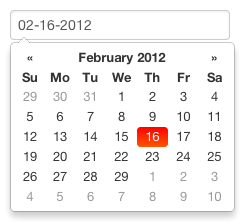
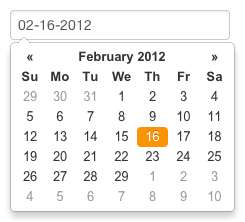
Removing mixins and gradients

diff --git a/css/datepicker.css b/css/datepicker.css
@@ -8,6 +8,16 @@
  * http://www.apache.org/licenses/LICENSE-2.0
  *
  */
+/*!
+ * Datepicker for Foundation
+ *
+ * Copyright 2012 Stefan Petre
+ * Improvements by Andrew Rowls
+ * Converted to SCSS by David Ollerhead
+ * Licensed under the Apache License v2.0
+ * http://www.apache.org/licenses/LICENSE-2.0
+ *
+ */
 .datepicker {
   padding: 4px;
   -webkit-border-radius: 4px;
@@ -39,7 +49,7 @@
     *border-right-width: 2px;
     *border-bottom-width: 2px;
     color: #333;
-    font-family: "Helvetica Neue", Helvetica, Arial, sans-serif;
+    font-family: Arial, "Helvetica Neue", Helvetica, sans-serif;
     font-size: 13px;
     line-height: 1.42857; }
   .datepicker.dropdown-menu th, .datepicker.dropdown-menu td, .datepicker.datepicker-inline th, .datepicker.datepicker-inline td {
@@ -127,22 +137,8 @@
     color: #999;
     cursor: default; }
   .datepicker table tr td.today, .datepicker table tr td.today:hover, .datepicker table tr td.today.disabled, .datepicker table tr td.today.disabled:hover {
-    background-color: #fde49a;
-    background-image: -moz-linear-gradient(top, #fdd49a, #fdf59a);
-    background-image: -ms-linear-gradient(top, #fdd49a, #fdf59a);
-    background-image: -webkit-gradient(linear, 0 0, 0 100%, from(#fdd49a), to(#fdf59a));
-    background-image: -webkit-linear-gradient(top, #fdd49a, #fdf59a);
-    background-image: -o-linear-gradient(top, #fdd49a, #fdf59a);
-    background-image: linear-gradient(top, #fdd49a, #fdf59a);
-    background-repeat: repeat-x;
-    border-color: #fdf59a #fdf59a #fbed50;
-    border-color: rgba(0, 0, 0, 0.1) rgba(0, 0, 0, 0.1) fadein(rgba(0, 0, 0, 0.1), 15%);
-    filter: progid:DXImageTransform.Microsoft.gradient(enabled = false);
+    background-color: #fdd49a;
     color: #000; }
-    .datepicker table tr td.today:hover, .datepicker table tr td.today:active, .datepicker table tr td.today.active, .datepicker table tr td.today.disabled, .datepicker table tr td.today[disabled], .datepicker table tr td.today:hover:hover, .datepicker table tr td.today:hover:active, .datepicker table tr td.today:hover.active, .datepicker table tr td.today:hover.disabled, .datepicker table tr td.today:hover[disabled], .datepicker table tr td.today.disabled:hover, .datepicker table tr td.today.disabled:active, .datepicker table tr td.today.disabled.active, .datepicker table tr td.today.disabled.disabled, .datepicker table tr td.today.disabled[disabled], .datepicker table tr td.today.disabled:hover:hover, .datepicker table tr td.today.disabled:hover:active, .datepicker table tr td.today.disabled:hover.active, .datepicker table tr td.today.disabled:hover.disabled, .datepicker table tr td.today.disabled:hover[disabled] {
-      background-color: #fdf59a; }
-    .datepicker table tr td.today:active, .datepicker table tr td.today.active, .datepicker table tr td.today:hover:active, .datepicker table tr td.today:hover.active, .datepicker table tr td.today.disabled:active, .datepicker table tr td.today.disabled.active, .datepicker table tr td.today.disabled:hover:active, .datepicker table tr td.today.disabled:hover.active {
-      background-color: #fbf069 e("	"); }
   .datepicker table tr td.today:hover:hover {
     color: #000; }
   .datepicker table tr td.today.active:hover {
@@ -153,60 +149,18 @@
     -moz-border-radius: 0;
     border-radius: 0; }
   .datepicker table tr td.range.today, .datepicker table tr td.range.today:hover, .datepicker table tr td.range.today.disabled, .datepicker table tr td.range.today.disabled:hover {
-    background-color: #e2c469;
-    background-image: -moz-linear-gradient(top, #e2b069, #e2d869);
-    background-image: -ms-linear-gradient(top, #e2b069, #e2d869);
-    background-image: -webkit-gradient(linear, 0 0, 0 100%, from(#e2b069), to(#e2d869));
-    background-image: -webkit-linear-gradient(top, #e2b069, #e2d869);
-    background-image: -o-linear-gradient(top, #e2b069, #e2d869);
-    background-image: linear-gradient(top, #e2b069, #e2d869);
-    background-repeat: repeat-x;
-    border-color: #e2d869 #e2d869 #d5c829;
-    border-color: rgba(0, 0, 0, 0.1) rgba(0, 0, 0, 0.1) fadein(rgba(0, 0, 0, 0.1), 15%);
-    filter: progid:DXImageTransform.Microsoft.gradient(enabled = false);
+    background-color: #e2b069;
     -webkit-border-radius: 0;
     -moz-border-radius: 0;
     border-radius: 0; }
-    .datepicker table tr td.range.today:hover, .datepicker table tr td.range.today:active, .datepicker table tr td.range.today.active, .datepicker table tr td.range.today.disabled, .datepicker table tr td.range.today[disabled], .datepicker table tr td.range.today:hover:hover, .datepicker table tr td.range.today:hover:active, .datepicker table tr td.range.today:hover.active, .datepicker table tr td.range.today:hover.disabled, .datepicker table tr td.range.today:hover[disabled], .datepicker table tr td.range.today.disabled:hover, .datepicker table tr td.range.today.disabled:active, .datepicker table tr td.range.today.disabled.active, .datepicker table tr td.range.today.disabled.disabled, .datepicker table tr td.range.today.disabled[disabled], .datepicker table tr td.range.today.disabled:hover:hover, .datepicker table tr td.range.today.disabled:hover:active, .datepicker table tr td.range.today.disabled:hover.active, .datepicker table tr td.range.today.disabled:hover.disabled, .datepicker table tr td.range.today.disabled:hover[disabled] {
-      background-color: #e2d869; }
-    .datepicker table tr td.range.today:active, .datepicker table tr td.range.today.active, .datepicker table tr td.range.today:hover:active, .datepicker table tr td.range.today:hover.active, .datepicker table tr td.range.today.disabled:active, .datepicker table tr td.range.today.disabled.active, .datepicker table tr td.range.today.disabled:hover:active, .datepicker table tr td.range.today.disabled:hover.active {
-      background-color: #dacd3e e("	"); }
   .datepicker table tr td.selected, .datepicker table tr td.selected:hover, .datepicker table tr td.selected.disabled, .datepicker table tr td.selected.disabled:hover {
-    background-color: #999999;
-    background-image: -moz-linear-gradient(top, #b3b3b3, gray);
-    background-image: -ms-linear-gradient(top, #b3b3b3, gray);
-    background-image: -webkit-gradient(linear, 0 0, 0 100%, from(#b3b3b3), to(gray));
-    background-image: -webkit-linear-gradient(top, #b3b3b3, gray);
-    background-image: -o-linear-gradient(top, #b3b3b3, gray);
-    background-image: linear-gradient(top, #b3b3b3, gray);
-    background-repeat: repeat-x;
-    border-color: gray gray #595959;
-    border-color: rgba(0, 0, 0, 0.1) rgba(0, 0, 0, 0.1) fadein(rgba(0, 0, 0, 0.1), 15%);
-    filter: progid:DXImageTransform.Microsoft.gradient(enabled = false);
+    background-color: #b3b3b3;
     color: #fff;
     text-shadow: 0 -1px 0 rgba(0, 0, 0, 0.25); }
-    .datepicker table tr td.selected:hover, .datepicker table tr td.selected:active, .datepicker table tr td.selected.active, .datepicker table tr td.selected.disabled, .datepicker table tr td.selected[disabled], .datepicker table tr td.selected:hover:hover, .datepicker table tr td.selected:hover:active, .datepicker table tr td.selected:hover.active, .datepicker table tr td.selected:hover.disabled, .datepicker table tr td.selected:hover[disabled], .datepicker table tr td.selected.disabled:hover, .datepicker table tr td.selected.disabled:active, .datepicker table tr td.selected.disabled.active, .datepicker table tr td.selected.disabled.disabled, .datepicker table tr td.selected.disabled[disabled], .datepicker table tr td.selected.disabled:hover:hover, .datepicker table tr td.selected.disabled:hover:active, .datepicker table tr td.selected.disabled:hover.active, .datepicker table tr td.selected.disabled:hover.disabled, .datepicker table tr td.selected.disabled:hover[disabled] {
-      background-color: gray; }
-    .datepicker table tr td.selected:active, .datepicker table tr td.selected.active, .datepicker table tr td.selected:hover:active, .datepicker table tr td.selected:hover.active, .datepicker table tr td.selected.disabled:active, .datepicker table tr td.selected.disabled.active, .datepicker table tr td.selected.disabled:hover:active, .datepicker table tr td.selected.disabled:hover.active {
-      background-color: #666666 e("	"); }
   .datepicker table tr td.active, .datepicker table tr td.active:hover, .datepicker table tr td.active.disabled, .datepicker table tr td.active.disabled:hover {
-    background-color: #ff2a00;
-    background-image: -moz-linear-gradient(top, #f00, #ff5500);
-    background-image: -ms-linear-gradient(top, #f00, #ff5500);
-    background-image: -webkit-gradient(linear, 0 0, 0 100%, from(#f00), to(#ff5500));
-    background-image: -webkit-linear-gradient(top, #f00, #ff5500);
-    background-image: -o-linear-gradient(top, #f00, #ff5500);
-    background-image: linear-gradient(top, #f00, #ff5500);
-    background-repeat: repeat-x;
-    border-color: #ff5500 #ff5500 #b33b00;
-    border-color: rgba(0, 0, 0, 0.1) rgba(0, 0, 0, 0.1) fadein(rgba(0, 0, 0, 0.1), 15%);
-    filter: progid:DXImageTransform.Microsoft.gradient(enabled = false);
+    background-color: #f89406;
     color: #fff;
     text-shadow: 0 -1px 0 rgba(0, 0, 0, 0.25); }
-    .datepicker table tr td.active:hover, .datepicker table tr td.active:active, .datepicker table tr td.active.active, .datepicker table tr td.active.disabled, .datepicker table tr td.active[disabled], .datepicker table tr td.active:hover:hover, .datepicker table tr td.active:hover:active, .datepicker table tr td.active:hover.active, .datepicker table tr td.active:hover.disabled, .datepicker table tr td.active:hover[disabled], .datepicker table tr td.active.disabled:hover, .datepicker table tr td.active.disabled:active, .datepicker table tr td.active.disabled.active, .datepicker table tr td.active.disabled.disabled, .datepicker table tr td.active.disabled[disabled], .datepicker table tr td.active.disabled:hover:hover, .datepicker table tr td.active.disabled:hover:active, .datepicker table tr td.active.disabled:hover.active, .datepicker table tr td.active.disabled:hover.disabled, .datepicker table tr td.active.disabled:hover[disabled] {
-      background-color: #ff5500; }
-    .datepicker table tr td.active:active, .datepicker table tr td.active.active, .datepicker table tr td.active:hover:active, .datepicker table tr td.active:hover.active, .datepicker table tr td.active.disabled:active, .datepicker table tr td.active.disabled.active, .datepicker table tr td.active.disabled:hover:active, .datepicker table tr td.active.disabled:hover.active {
-      background-color: #cc4400 e("	"); }
   .datepicker table tr td span {
     display: block;
     width: 23%;
@@ -225,23 +179,9 @@
       color: #999;
       cursor: default; }
     .datepicker table tr td span.active, .datepicker table tr td span.active:hover, .datepicker table tr td span.active.disabled, .datepicker table tr td span.active.disabled:hover {
-      background-color: #ff2a00;
-      background-image: -moz-linear-gradient(top, #f00, #ff5500);
-      background-image: -ms-linear-gradient(top, #f00, #ff5500);
-      background-image: -webkit-gradient(linear, 0 0, 0 100%, from(#f00), to(#ff5500));
-      background-image: -webkit-linear-gradient(top, #f00, #ff5500);
-      background-image: -o-linear-gradient(top, #f00, #ff5500);
-      background-image: linear-gradient(top, #f00, #ff5500);
-      background-repeat: repeat-x;
-      border-color: #ff5500 #ff5500 #b33b00;
-      border-color: rgba(0, 0, 0, 0.1) rgba(0, 0, 0, 0.1) fadein(rgba(0, 0, 0, 0.1), 15%);
-      filter: progid:DXImageTransform.Microsoft.gradient(enabled = false);
+      background-color: #f89406;
       color: #fff;
       text-shadow: 0 -1px 0 rgba(0, 0, 0, 0.25); }
-      .datepicker table tr td span.active:hover, .datepicker table tr td span.active:active, .datepicker table tr td span.active.active, .datepicker table tr td span.active.disabled, .datepicker table tr td span.active[disabled], .datepicker table tr td span.active:hover:hover, .datepicker table tr td span.active:hover:active, .datepicker table tr td span.active:hover.active, .datepicker table tr td span.active:hover.disabled, .datepicker table tr td span.active:hover[disabled], .datepicker table tr td span.active.disabled:hover, .datepicker table tr td span.active.disabled:active, .datepicker table tr td span.active.disabled.active, .datepicker table tr td span.active.disabled.disabled, .datepicker table tr td span.active.disabled[disabled], .datepicker table tr td span.active.disabled:hover:hover, .datepicker table tr td span.active.disabled:hover:active, .datepicker table tr td span.active.disabled:hover.active, .datepicker table tr td span.active.disabled:hover.disabled, .datepicker table tr td span.active.disabled:hover[disabled] {
-        background-color: #ff5500; }
-      .datepicker table tr td span.active:active, .datepicker table tr td span.active.active, .datepicker table tr td span.active:hover:active, .datepicker table tr td span.active:hover.active, .datepicker table tr td span.active.disabled:active, .datepicker table tr td span.active.disabled.active, .datepicker table tr td span.active.disabled:hover:active, .datepicker table tr td span.active.disabled:hover.active {
-        background-color: #cc4400 e("	"); }
     .datepicker table tr td span.old, .datepicker table tr td span.new {
       color: #999; }
   .datepicker th.datepicker-switch {
@@ -260,37 +200,5 @@
   .datepicker thead tr:first-child th.cw {
     cursor: default;
     background-color: transparent; }
-
-.input-append.date .add-on i,
-.input-prepend.date .add-on i {
-  cursor: pointer;
-  width: 16px;
-  height: 16px; }
-
-.input-daterange input {
-  text-align: center; }
-.input-daterange input:first-child {
-  -webkit-border-radius: 3px 0 0 3px;
-  -moz-border-radius: 3px 0 0 3px;
-  border-radius: 3px 0 0 3px; }
-.input-daterange input:last-child {
-  -webkit-border-radius: 0 3px 3px 0;
-  -moz-border-radius: 0 3px 3px 0;
-  border-radius: 0 3px 3px 0; }
-.input-daterange .add-on {
-  display: inline-block;
-  width: auto;
-  min-width: 16px;
-  height: 18px;
-  padding: 4px 5px;
-  font-weight: normal;
-  line-height: 18px;
-  text-align: center;
-  text-shadow: 0 1px 0 #fff;
-  vertical-align: middle;
-  background-color: #ccc;
-  border: 1px solid #ccc;
-  margin-left: -5px;
-  margin-right: -5px; }
 
 /*# sourceMappingURL=datepicker.css.map */

diff --git a/scss/datepicker.scss b/scss/datepicker.scss
@@ -9,9 +9,6 @@
  *
  */
 
-// Datepicker standalone .scss buildfile.  Includes all necessary mixins/variables/rules from bootstrap
-// and imports the included datepicker.scss to output a minimal standalone datepicker.css
-
 // There's a lot more to do here, to factor out the scss vars and potentially reference them again existing foundation vars
 
 // Mixins
@@ -31,78 +28,6 @@
           border-radius: $radius;
 }
 
-// Gradients
-@mixin vertical($startColor: #555, $endColor: #333) {
-  background-color: mix($startColor, $endColor);
-  background-image: -moz-linear-gradient(top, $startColor, $endColor); // FF 3.6+
-  background-image: -ms-linear-gradient(top, $startColor, $endColor); // IE10
-  background-image: -webkit-gradient(linear, 0 0, 0 100%, from($startColor), to($endColor)); // Safari 4+, Chrome 2+
-  background-image: -webkit-linear-gradient(top, $startColor, $endColor); // Safari 5.1+, Chrome 10+
-  background-image: -o-linear-gradient(top, $startColor, $endColor); // Opera 11.10
-  background-image: linear-gradient(top, $startColor, $endColor); // The standard
-  background-repeat: repeat-x;
-  // filter: e(%("progid:DXImageTransform.Microsoft.gradient(startColorstr='%d', endColorstr='%d', GradientType=0)",$startColor,$endColor)); // IE9 and down
-}
-
-// Gradient Bar Colors for buttons and alerts
-@mixin gradientBar($primaryColor, $secondaryColor) {
-  @include vertical($primaryColor, $secondaryColor);
-  border-color: $secondaryColor $secondaryColor darken($secondaryColor, 15%);
-  border-color: rgba(0,0,0,.1) rgba(0,0,0,.1) fadein(rgba(0,0,0,.1), 15%);
-}
-
-// Button backgrounds
-@mixin buttonBackground($startColor, $endColor) {
-  @include gradientBar($startColor, $endColor);
-  @include reset-filter();
-  &:hover, &:active, &.active, &.disabled, &[disabled] {
-    background-color: $endColor;
-  }
-  &:active,
-  &.active {
-    background-color: darken($endColor, 10%) e("\9");
-  }
-}
-
-// Reset filters for IE
-@mixin reset-filter() {
-  filter: progid:DXImageTransform.Microsoft.gradient(enabled = false);
-}
-
-// Button variants
-@mixin button-variant($color, $background, $border) {
-  color: $color;
-  background-color: $background;
-  border-color: $border;
-
-  &:hover,
-  &:focus,
-  &:active,
-  &.active,
-  .open .dropdown-toggle & {
-    color: $color;
-    background-color: darken($background, 8%);
-        border-color: darken($border, 12%);
-  }
-  &:active,
-  &.active,
-  .open .dropdown-toggle & {
-    background-image: none;
-  }
-  &.disabled,
-  &[disabled],
-  fieldset[disabled] & {
-    &,
-    &:hover,
-    &:focus,
-    &:active,
-    &.active {
-      background-color: $background;
-      border-color: $border;
-    }
-  }
-}
-
 
 // The dropdown menu (<ul>)
 // =========================================
@@ -120,7 +45,7 @@
         display: none; // none by default, but block on "open" of the menu
         min-width: 160px;
         list-style: none;
-        background-color: $dropdown-bg;
+        background-color: $white;
         border: 1px solid $grayLighter;
         border: 1px solid rgba(0,0,0,.2);
         border-radius: 5px;
@@ -246,7 +171,7 @@
         &.today.disabled,
         &.today.disabled:hover {
             $todayBackground: lighten($primary, 30%);
-            @include buttonBackground($todayBackground, adjust-hue($todayBackground, 20));
+            background-color: $todayBackground;
             color: #000;
         }
         &.today:hover:hover { // Thank bootstrap 2.0 for this selector...
@@ -268,14 +193,14 @@
         &.range.today.disabled,
         &.range.today.disabled:hover {
             $todayBackground: mix($primary, $grayLighter, 50%);
-            @include buttonBackground($todayBackground, adjust-hue($todayBackground, 20));
+            background-color: $todayBackground;
             @include border-radius(0);
         }
         &.selected,
         &.selected:hover,
         &.selected.disabled,
         &.selected.disabled:hover {
-            @include buttonBackground(lighten($grayLight, 10), darken($grayLight, 10));
+            background-color: lighten($grayLight, 10);
             color: $white;
             text-shadow: 0 -1px 0 rgba(0,0,0,.25);
         }
@@ -283,7 +208,7 @@
         &.active:hover,
         &.active.disabled,
         &.active.disabled:hover {
-            @include buttonBackground($btnPrimaryBackground, adjust-hue($btnPrimaryBackground, 20));
+            background-color: $primary;
             color: $white;
             text-shadow: 0 -1px 0 rgba(0,0,0,.25);
         }
@@ -309,7 +234,7 @@
             &.active:hover,
             &.active.disabled,
             &.active.disabled:hover {
-                @include buttonBackground($btnPrimaryBackground, adjust-hue($btnPrimaryBackground, 20));
+                background-color: $primary;
                 color: $white;
                 text-shadow: 0 -1px 0 rgba(0,0,0,.25);
             }
@@ -345,42 +270,5 @@
     thead tr:first-child th.cw {
         cursor: default;
         background-color: transparent;
-    }
-}
-.input-append,
-.input-prepend {
-    &.date {
-        .add-on i {
-            cursor: pointer;
-            width: 16px;
-            height: 16px;
-        }
-    }
-}
-.input-daterange {
-    input {
-        text-align:center;
-    }
-    input:first-child {
-        @include border-radius(3px 0 0 3px);
-    }
-    input:last-child {
-        @include border-radius(0 3px 3px 0);
-    }
-    .add-on {
-        display: inline-block;
-        width: auto;
-        min-width: 16px;
-        height: $baseLineHeight;
-        padding: 4px 5px;
-        font-weight: normal;
-        line-height: $baseLineHeight;
-        text-align: center;
-        text-shadow: 0 1px 0 $white;
-        vertical-align: middle;
-        background-color: $grayLighter;
-        border: 1px solid $grayLighter;
-        margin-left:-5px;
-        margin-right:-5px;
     }
 }

diff --git a/scss/settings.scss b/scss/settings.scss
@@ -1,3 +1,14 @@
+/*!
+ * Datepicker for Foundation
+ *
+ * Copyright 2012 Stefan Petre
+ * Improvements by Andrew Rowls
+ * Converted to SCSS by David Ollerhead
+ * Licensed under the Apache License v2.0
+ * http://www.apache.org/licenses/LICENSE-2.0
+ *
+ */
+
 // Variables
 // =========================================
 
@@ -8,12 +19,10 @@ $grayLight:             #999;
 $grayLighter:           #ccc;
 $grayLightest:          #eee;
 $white:                 #fff;
-$btnPrimaryBackground:  #f00;
 $primary:               #f89406;
-$dropdown-bg:           $white;
 
 // Type
-$font-family:           "Helvetica Neue", Helvetica, Arial, sans-serif;
+$font-family:           Arial, "Helvetica Neue", Helvetica, sans-serif;
 $baseLineHeight:        18px;
 $line-height-base:      1.428571429; // 20/14
 $zindex-dropdown:       1000;
